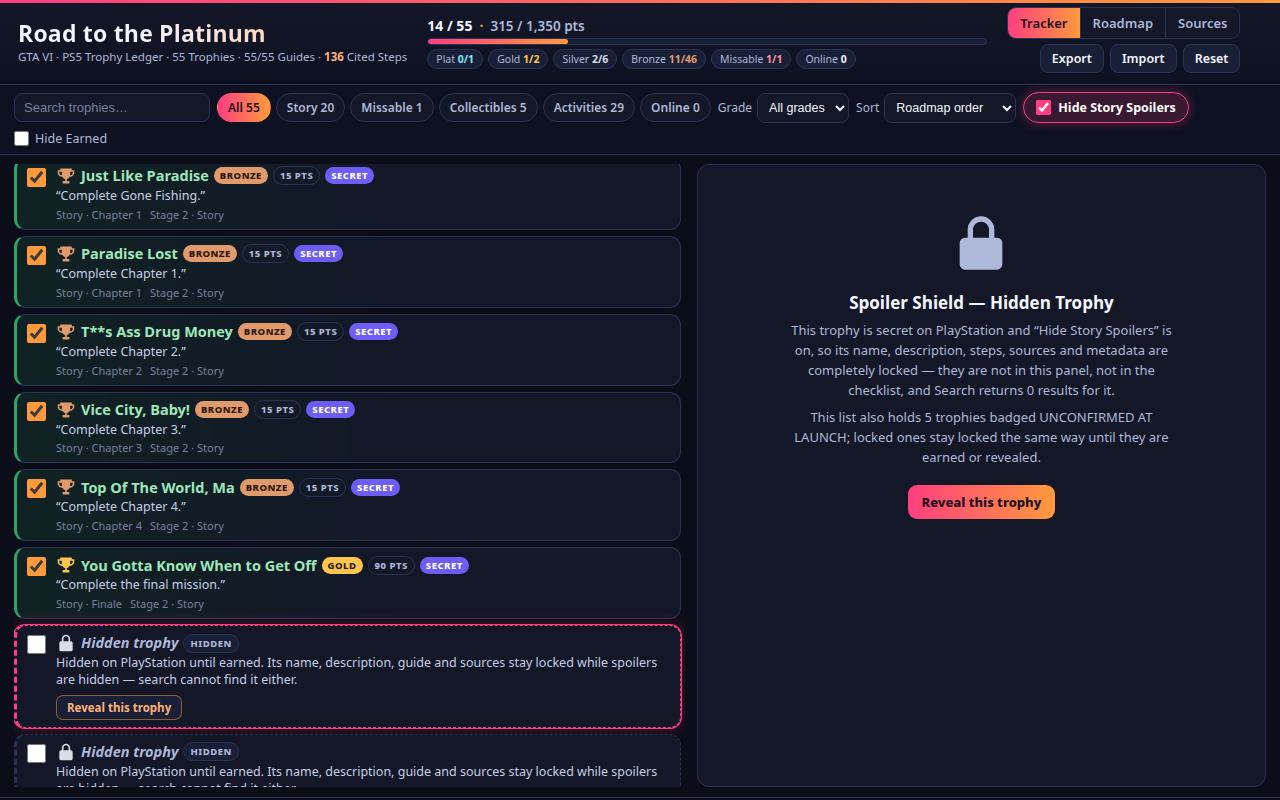
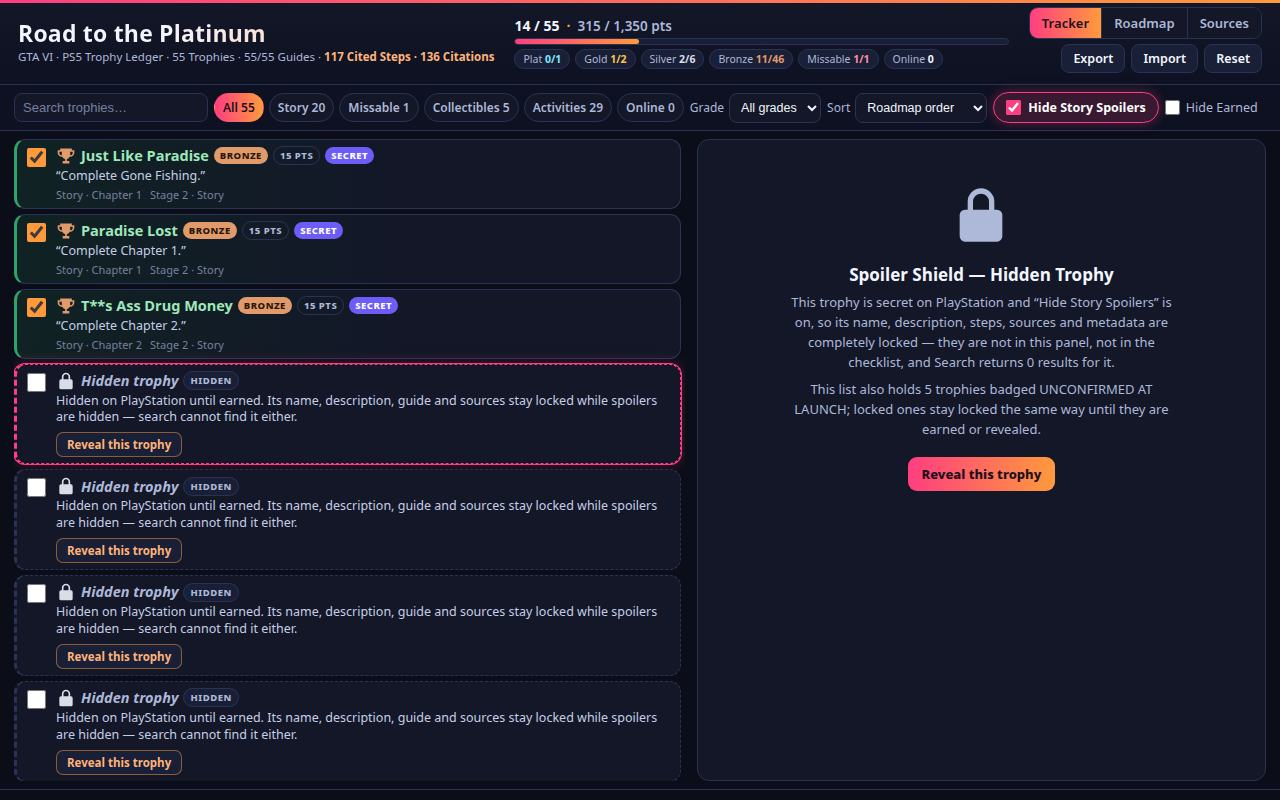
Micro-polish: one-row filter bar, cited-steps header, clean roadmap chapters + SVG arrows, cited Gold cover with Unlock Facts

diff --git a/app/style.css b/app/style.css
@@ -64,18 +64,18 @@ button { font-family: inherit; }
 
 /* ---------- Filter bar ---------- */
 .filterbar {
-  display: flex; flex-wrap: wrap; align-items: center; gap: 7px;
+  display: flex; flex-wrap: wrap; align-items: center; gap: 6px;
   padding: 7px 14px; background: #0E1122; border-bottom: 1px solid #2A3356;
 }
 .search {
-  flex: 0 1 168px; background: #131728; border: 1px solid #2A3356; border-radius: 8px;
-  color: #F4F6FF; padding: 6px 9px; font-size: 13px;
+  flex: 0 1 150px; background: #131728; border: 1px solid #2A3356; border-radius: 8px;
+  color: #F4F6FF; padding: 6px 8px; font-size: 13px;
 }
 .search::placeholder { color: #77819F; }
 .kind-pills { display: flex; flex-wrap: wrap; gap: 5px; }
 .pill {
   background: #131728; color: #AEB8D8; border: 1px solid #2A3356; border-radius: 999px;
-  padding: 5px 10px; font-size: 12px; font-weight: 600; cursor: pointer;
+  padding: 5px 8px; font-size: 12px; font-weight: 600; cursor: pointer;
 }
 .pill:hover { color: #F4F6FF; }
 .pill.active { background: linear-gradient(90deg, #FF3E81, #FF9A3C); color: #22101F; border-color: transparent; }
@@ -108,10 +108,10 @@ button { font-family: inherit; }
 /* ---------- Tracker grid ---------- */
 .tracker-grid {
   display: grid; grid-template-columns: minmax(0, 1.12fr) minmax(0, .95fr);
-  gap: 12px; padding: 9px 14px 10px;
-  height: calc(100vh - 158px); min-height: 430px;
+  gap: 12px; padding: 8px 14px;
+  height: calc(100vh - 142px); min-height: 430px;
 }
-.list-col { overflow-y: auto; padding-right: 4px; display: flex; flex-direction: column; gap: 8px; }
+.list-col { overflow-y: auto; padding-right: 4px; display: flex; flex-direction: column; gap: 6px; }
 .filter-count { margin: 0; font-size: 12px; color: #AEB8D8; font-weight: 600; }
 .empty-state {
   margin: 0; padding: 16px; font-size: 13px; color: #AEB8D8;
@@ -129,9 +129,9 @@ button { font-family: inherit; }
 .plat-pin .pp-fill { height: 100%; background: linear-gradient(90deg, #7DE9FF, #A78BFA); }
 .plat-pin .pp-count { font-weight: 800; font-size: 13px; color: #7DE9FF; white-space: nowrap; }
 
-.trophy-list { list-style: none; margin: 0; padding: 0; display: flex; flex-direction: column; gap: 6px; }
+.trophy-list { list-style: none; margin: 0; padding: 0; display: flex; flex-direction: column; gap: 5px; }
 .trophy {
-  display: flex; gap: 10px; padding: 7px 10px; cursor: pointer;
+  display: flex; gap: 10px; padding: 6px 10px; cursor: pointer;
   background: #131728; border: 1px solid #2A3356; border-left: 3px solid #2A3356; border-radius: 11px;
 }
 .trophy:hover { border-color: #3D4A7A; }
@@ -180,20 +180,20 @@ button { font-family: inherit; }
 /* ---------- Inspector ---------- */
 .inspector {
   background: #131728; border: 1px solid #2A3356; border-radius: 12px;
-  padding: 12px 14px; overflow-y: auto; min-height: 0;
+  padding: 9px 14px; overflow-y: auto; min-height: 0;
 }
 .insp-head { display: flex; gap: 11px; align-items: flex-start; }
 .insp-head .trophy-icon { width: 34px; height: 34px; }
 .insp-name { margin: 0; font-size: 19px; line-height: 1.15; }
 .insp-tags { display: flex; flex-wrap: wrap; gap: 5px; margin-top: 6px; align-items: center; }
 .insp-desc {
-  margin: 8px 0; padding: 8px 12px; background: #191F36; border-left: 3px solid #FF9A3C;
+  margin: 7px 0; padding: 6px 12px; background: #191F36; border-left: 3px solid #FF9A3C;
   border-radius: 0 9px 9px 0; font-style: italic; font-size: 13.5px; color: #E4E9FA;
 }
-.banner { border-radius: 9px; padding: 8px 12px; font-weight: 800; font-size: 12.5px; letter-spacing: .4px; margin: 7px 0; }
+.banner { border-radius: 9px; padding: 6px 12px; font-weight: 800; font-size: 12.5px; letter-spacing: .4px; margin: 5px 0; }
 .banner-missable { background: rgba(255, 59, 92, .16); border: 1px solid #FF3B5C; color: #FFB3C0; }
 .banner-unconfirmed { background: rgba(255, 176, 32, .14); border: 1px solid #FFB020; color: #FFD98A; }
-.insp-actions { display: flex; flex-wrap: wrap; gap: 7px; margin: 7px 0; }
+.insp-actions { display: flex; flex-wrap: wrap; gap: 7px; margin: 5px 0; }
 .btn-big {
   background: linear-gradient(90deg, #FF3E81, #FF9A3C); color: #22101F; border: 0;
   border-radius: 9px; padding: 8px 14px; font-size: 13px; font-weight: 800; cursor: pointer;
@@ -202,17 +202,23 @@ button { font-family: inherit; }
   background: #191F36; color: #F4F6FF; border: 1px solid #2A3356; border-radius: 9px;
   padding: 8px 13px; font-size: 12.5px; font-weight: 600; cursor: pointer;
 }
-.insp h3.insp-h { margin: 10px 0 4px; font-size: 12px; text-transform: uppercase; letter-spacing: .7px; color: #FFB37A; }
-.guide-text { font-size: 12.5px; line-height: 1.45; color: #E4E9FA; margin: 4px 0; }
+.insp h3.insp-h { margin: 6px 0 4px; font-size: 12px; text-transform: uppercase; letter-spacing: .7px; color: #FFB37A; }
+.guide-text { font-size: 12.5px; line-height: 1.45; color: #E4E9FA; margin: 3px 0; }
+.guide-sources { margin: 0 0 2px; font-size: 11.5px; color: #AEB8D8; }
+.guide-sources .cite { margin-left: 2px; }
 ol.steps { margin: 4px 0; padding-left: 21px; }
-ol.steps li { font-size: 12.5px; line-height: 1.42; margin: 6px 0; color: #EDF0FC; }
+ol.steps li { font-size: 12.5px; line-height: 1.38; margin: 4px 0; color: #EDF0FC; }
 .cite {
   display: inline-block; font-size: 10.5px; font-weight: 700; white-space: nowrap;
   padding: 1px 6px; margin-left: 4px; border-radius: 999px; vertical-align: 1px;
   background: rgba(255, 154, 60, .15); border: 1px solid rgba(255, 154, 60, .45); color: #FFB37A;
 }
-.cited-sources { border-top: 1px solid #2A3356; margin-top: 9px; padding-top: 7px; font-size: 13px; }
+.cited-sources { border-top: 1px solid #2A3356; margin-top: 7px; padding-top: 4px; font-size: 13px; }
 .cited-sources a { text-decoration: underline; text-underline-offset: 2px; font-weight: 600; }
+.facts { display: grid; grid-template-columns: repeat(4, 1fr); gap: 5px; margin: 2px 0 2px; }
+.fact { background: #191F36; border: 1px solid #2A3356; border-radius: 8px; padding: 3px 8px; min-width: 0; }
+.fact-k { display: block; font-size: 9px; font-weight: 800; letter-spacing: .6px; text-transform: uppercase; color: #77819F; }
+.fact-v { display: block; font-size: 11.5px; font-weight: 700; color: #F4F6FF; margin-top: 1px; }
 .shield { text-align: center; padding: 34px 12px 22px; }
 .shield .lock-icon { width: 64px; height: 64px; fill: #AEB8D8; }
 .shield h3 { margin: 12px 0 6px; font-size: 17px; }
@@ -252,9 +258,11 @@ ol.steps li { font-size: 12.5px; line-height: 1.42; margin: 6px 0; color: #EDF0F
 }
 .chip-t i { font-style: normal; margin-right: 4px; }
 .rm-btn {
-  flex: none; background: #191F36; color: #FFB37A; border: 1px solid rgba(255, 154, 60, .5);
+  flex: none; display: inline-flex; align-items: center; gap: 6px;
+  background: #191F36; color: #FFB37A; border: 1px solid rgba(255, 154, 60, .5);
   border-radius: 8px; padding: 4px 10px; font-size: 11.5px; font-weight: 700; cursor: pointer;
 }
+.rm-arrow { width: 13px; height: 13px; fill: currentColor; flex: none; }
 .rm-unconf { border: 1px solid rgba(255, 176, 32, .55); background: rgba(255, 176, 32, .07); border-radius: 9px; padding: 6px 10px; margin-top: 6px; }
 .missable-alert {
   margin: 6px 0 0; background: rgba(255, 59, 92, .12); border: 1px solid #FF3B5C;

diff --git a/app/app.js b/app/app.js
@@ -80,7 +80,7 @@ async function main() {
   const unconfirmed = trophies.filter((t) => !t.confirmed);
   const totalSteps = trophies.reduce((n, t) => n + (t.steps ? t.steps.length : 0), 0);
   const totalCites = trophies.reduce((n, t) => n + (t.steps ? t.steps.reduce((m, s) => m + s.cites.length, 0) : 0), 0);
-  $('citedSteps').textContent = String(totalCites);
+  $('citedSteps').textContent = `${totalSteps} Cited Steps · ${totalCites} Citations`;
   document.title = 'Road to the Platinum — GTA VI Trophy Ledger';
 
   let earned = new Set();
@@ -258,11 +258,20 @@ async function main() {
       + (t.missable ? badge('Missable', 'b-missable') : '')
       + (t.secret ? badge('Secret', 'b-secret') : '')
       + (!t.confirmed ? badge('Unconfirmed at launch', 'b-unconfirmed') : '');
-    const banners = (t.missable ? '<div class="banner banner-missable">⚠ MISSABLE — CHAPTER 1 LOCKOUT: the Chapter 1 meditation spot on Lucia’s balcony disappears when Chapter 1 ends. Do it first.</div>' : '')
+    const banners = (t.missable ? '<div class="banner banner-missable">⚠ MISSABLE — CHAPTER 1 LOCKOUT: Lucia’s balcony meditation spot disappears when Chapter 1 ends — do it first.</div>' : '')
       + (!t.confirmed ? '<div class="banner banner-unconfirmed">UNCONFIRMED AT LAUNCH — NO INVENTED STEPS: the trigger was not verified on launch day (19 Nov 2026), so the steps below state what is known and where to check.</div>' : '');
     const steps = (t.steps || []).map((s) => `<li>${esc(s.text)}${citeChips(s.cites)}</li>`).join('');
     const citedNames = [...new Set((t.steps || []).flatMap((s) => s.cites))];
     const cited = citedNames.map((n) => `<a href="${SOURCE_URLS[n]}" target="_blank" rel="noopener noreferrer">${esc(n)}</a>`).join(' · ');
+    const stepCount = (t.steps || []).length;
+    const citeCount = (t.steps || []).reduce((n, s) => n + s.cites.length, 0);
+    const facts = `<h3 class="insp-h">Unlock Facts</h3>
+      <div class="facts">
+        <div class="fact"><span class="fact-k">Missable</span><span class="fact-v">${t.missable ? 'Yes — Ch. 1 lockout' : 'No'}</span></div>
+        <div class="fact"><span class="fact-k">Stage</span><span class="fact-v">${t.stage === 'platinum' ? 'Final' : `Stage ${t.stage}`}</span></div>
+        <div class="fact"><span class="fact-k">Playthroughs</span><span class="fact-v">1 run</span></div>
+        <div class="fact"><span class="fact-k">Cited Guides</span><span class="fact-v">${stepCount} steps · ${citeCount} citations</span></div>
+      </div>`;
     const actions = t.id === PLATINUM_ID
       ? `<p class="guide-text">Platinum progress: ${earnable.filter((x) => earned.has(x.id)).length} / 54 other trophies earned. This checkbox ticks itself automatically — in both directions — the moment all 54 are complete.</p>`
       : `<div class="insp-actions"><button type="button" class="btn-big" data-act="toggle">${isEarned ? '✓ Earned — tap to undo' : 'Mark as earned'}</button>`
@@ -276,9 +285,11 @@ async function main() {
       ${banners}${actions}
       <h3 class="insp-h">The guide, in our own words</h3>
       <p class="guide-text">${esc(t.guide)}</p>
+      <p class="guide-sources">Guide sources: ${citeChips(citedNames)}</p>
       <h3 class="insp-h">Steps, with a source on every step</h3>
       <ol class="steps">${steps}</ol>
-      <div class="cited-sources"><strong>Cited Sources:</strong> ${cited}</div>`;
+      <div class="cited-sources"><strong>Cited Sources:</strong> ${cited}</div>
+      ${facts}`;
   }
 
   inspectorEl.addEventListener('click', (ev) => {
@@ -311,7 +322,7 @@ async function main() {
     const spoilerOn = spoilerEl.checked;
     const chapters = spoilerOn
       ? 'Chapter 1 — the opening missions and the chapter completion · Chapter 2 — the chapter completion · Chapter 3 — the chapter completion · Chapter 4 — the chapter completion · Finale — the final mission (Gold)'
-      : `Chapter 1 — ${esc(missionOf(T(2)))} (Just Like Paradise), then ${esc(missionOf(T(3)))} · Chapter 2 — ${esc(missionOf(T(4)))} · Chapter 3 — ${esc(missionOf(T(5)))} · Chapter 4 — ${esc(missionOf(T(6)))} · Finale — ${esc(missionOf(T(7)))} (You Gotta Know When to Get Off, Gold)`;
+      : `Chapter 1 — ${esc(missionOf(T(2)))} (${esc(displayName(T(2)))}) &amp; ${esc(displayName(T(3)))} · Chapter 2 — ${esc(displayName(T(4)))} · Chapter 3 — ${esc(displayName(T(5)))} · Chapter 4 — ${esc(displayName(T(6)))} · Finale — ${esc(displayName(T(7)))} (Gold)`;
     const missions = [8, 9, 10, 11, 12, 13].map((id) => chipT(T(id), missionOf(T(id)))).join('');
     const strands = [22, 23, 24, 26, 27].map((id) => chipT(T(id))).join('') + chipT(T(25), '8 strands in total');
     const collect = [[30, 'complete 3 card sets'], [31, 'WAiNK at 100 locations'], [35, 'discover 100 vehicles'], [42, 'explore all of Leonida']]
@@ -331,7 +342,7 @@ async function main() {
         ? { done: earnable.filter((t) => earned.has(t.id)).length, total: 54 }
         : stageProgress(key);
       return `<div class="rm-stage ${cls}">
-        <div class="rm-head"><strong>${title}</strong><span class="rm-prog">${p.done} / ${p.total} earned</span><button type="button" class="rm-btn" data-stage="${key}">Show these in the Tracker →</button></div>
+        <div class="rm-head"><strong>${title}</strong><span class="rm-prog">${p.done} / ${p.total} earned</span><button type="button" class="rm-btn" data-stage="${key}">Show these in the Tracker <svg class="rm-arrow" viewBox="0 0 24 24" aria-hidden="true"><path d="M4 11h12.2l-4.6-4.6L13 5l7 7-7 7-1.4-1.4 4.6-4.6H4z"/></svg></button></div>
         <div class="rm-bar"><div class="rm-fill" style="width:${p.total ? Math.round((p.done / p.total) * 100) : 0}%"></div></div>
         <div class="rm-body">${body}</div>
       </div>`;

diff --git a/app/index.html b/app/index.html
@@ -10,7 +10,7 @@
 <header class="hud">
   <div class="hud-left">
     <h1>Road to the Platinum</h1>
-    <p class="subtitle" id="subtitle">GTA VI · PS5 Trophy Ledger · 55 Trophies · 55/55 Guides · <span id="citedSteps">—</span> Cited Steps</p>
+    <p class="subtitle" id="subtitle">GTA VI · PS5 Trophy Ledger · 55 Trophies · 55/55 Guides · <span id="citedSteps">—</span></p>
   </div>
   <div class="hud-center">
     <div class="progress-line"><span id="progressText">0 / 55</span><span class="dot">·</span><span id="progressPoints">0 / 1,350 pts</span></div>
